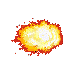
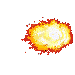
Added iceball and modified player blocking

diff --git a/src/Server/Creatures/ServerPlayer.java b/src/Server/Creatures/ServerPlayer.java
@@ -34,7 +34,7 @@ public class ServerPlayer extends ServerCreature implements Runnable
 	public final static int PLAYER_Y = 50;
 	public final static int MAX_INVENTORY = 25;
 	public static final int MAX_WEAPONS = 4;
-	
+
 	public final static int DEFAULT_WIDTH = 34;
 	public final static int DEFAULT_HEIGHT = 90;
 
@@ -880,7 +880,8 @@ public class ServerPlayer extends ServerCreature implements Runnable
 	{
 
 		int xDist = mouseX - Client.Client.SCREEN_WIDTH / 2;
-		int yDist = mouseY - (Client.Client.SCREEN_HEIGHT / 2 -getHeight()/4);
+		int yDist = mouseY
+				- (Client.Client.SCREEN_HEIGHT / 2 - getHeight() / 4);
 
 		System.out.println("X/Y " + xDist + " " + yDist);
 
@@ -890,22 +891,42 @@ public class ServerPlayer extends ServerCreature implements Runnable
 
 		if (isAlive() && canPerformAction)
 		{
+			if (rightClick)
+			{
+				actionDelay = 3600;
+				action = "BLOCK";
+				rightClick = false;
+			}
+			else
+			{
+				int random = (int) (Math.random() * 3);
+				if (random == 0)
+				{
+					world.add(new ServerProjectile(getX() + getWidth() / 2,
+							getY()
+									+ getHeight() / 4, this, angle,
+							ServerWorld.FIREBALL_TYPE));
+				}
+				else if (random == 1)
+				{
 
-			world.add(new ServerProjectile(getX() + getWidth() / 2, getY()
-					+ getHeight() / 4, this, angle, ServerWorld.FIREBALL_TYPE));
-			
-			world.add(new ServerProjectile(getX() + getWidth() / 2, getY()
-					+ getHeight() / 4, this, angle, ServerWorld.ARROW_TYPE));
-			
-			actionDelay = 15;
-			action = "FIRE";
+					world.add(new ServerProjectile(getX() + getWidth() / 2,
+							getY()
+									+ getHeight() / 4, this, angle,
+							ServerWorld.ICEBALL_TYPE));
+				}
+				else if (random == 2)
+				{
+					world.add(new ServerProjectile(getX() + getWidth() / 2,
+							getY()
+									+ getHeight() / 4, this, angle,
+							ServerWorld.ARROW_TYPE));
+				}
+				actionDelay = 15;
+				action = "FIRE";
 
-			// if (rightClick)
-			// {
-			// actionDelay = 3600;
-			// action = "BLOCK";
-			// rightClick = false;
-			// }
+			}
+
 			// else if (weaponNo == 9 || equippedWeapons[weaponNo] == null)
 			// {
 			// action = "PUNCH";
@@ -1026,7 +1047,7 @@ public class ServerPlayer extends ServerCreature implements Runnable
 	{
 		if (action.equals("BLOCK"))
 		{
-			amount /= 2;
+			amount = 0;
 		}
 
 		if (equippedArmour != null)

diff --git a/src/Server/Projectile/ServerProjectile.java b/src/Server/Projectile/ServerProjectile.java
@@ -112,13 +112,19 @@ public class ServerProjectile extends ServerFlyingObject
 			animated = true;
 			faceAngle = true;
 			break;
+		case ServerWorld.ICEBALL_TYPE:
+			setImage("ICEBALL_0_0.png");
+			setGravity(0);
+			setDamage(12);
+			setSpeed(6);
+			animated = true;
+			faceAngle = true;
+			break;
 		}
 
 		length = Images.getGameImage(getImage()).getWidth();
 
-		hitbox = new Line2D.Double(getX()
-				- ((length / 2) * Math.cos(getAngle())), getY()
-				- ((length / 2) * Math.sin(getAngle())), getX()
+		hitbox = new Line2D.Double(getX(), getY(), getX()
 				+ ((length / 2) * Math.cos(getAngle())), getY()
 				+ ((length / 2) * Math.sin(getAngle())));
 	}
@@ -131,11 +137,9 @@ public class ServerProjectile extends ServerFlyingObject
 
 		setAngle(Math.atan2(getVSpeed(), getHSpeed()), false);
 
-		hitbox.setLine(getX()
-				- ((length / 2) * Math.cos(getAngle())), getY()
-				- ((length / 2) * Math.sin(getAngle())), getX()
-				+ ((length / 2) * Math.cos(getAngle())), getY()
-				+ ((length / 2) * Math.sin(getAngle())));
+		hitbox.setLine(getX(), getY(),
+				getX() + ((length / 2) * Math.cos(getAngle())), getY()
+						+ ((length / 2) * Math.sin(getAngle())));
 
 		int imageAngle = 0;
 
@@ -153,14 +157,14 @@ public class ServerProjectile extends ServerFlyingObject
 		if (animated)
 		{
 			animationCounter++;
-			if (animationCounter >= 20)
+			if (animationCounter >= 10)
 			{
 				animationCounter = 0;
 			}
 
 			int imageNo = 1;
 
-			if (animationCounter < 10)
+			if (animationCounter < 5)
 			{
 				imageNo = 0;
 			}
@@ -189,7 +193,7 @@ public class ServerProjectile extends ServerFlyingObject
 
 		counter++;
 
-		if (counter >= 180)
+		if (counter >= 300)
 		{
 			destroy();
 		}

diff --git a/src/Client/ClientWorld.java b/src/Client/ClientWorld.java
@@ -22,7 +22,7 @@ public class ClientWorld
 
 	public final static Color YELLOW_TEXT = new Color(204, 153, 0);
 	public final static Color RED_TEXT = new Color(153, 0, 38);
-
+	public final static Color BLUE_TEXT = new Color(0, 161, 230);
 	/**
 	 * The grid of tiles
 	 */
@@ -346,7 +346,15 @@ public class ClientWorld
 					{
 						String imageName = object.getImageName();
 						char colour = imageName.charAt(1);
-						if (colour == ServerDamageIndicator.RED_TEXT)
+						String text = imageName
+								.substring(2, imageName.length());
+						
+						if (Integer.parseInt(text)==0)
+						{
+							graphics.setColor(BLUE_TEXT);
+							text = "BLOCK";
+						}	
+						else if (colour == ServerDamageIndicator.RED_TEXT)
 						{
 							graphics.setColor(RED_TEXT);
 						}
@@ -356,16 +364,9 @@ public class ClientWorld
 						}
 
 						graphics.setFont(DAMAGE_FONT);
-						String text = imageName
-								.substring(2, imageName.length());
-
-						if (object.getWidth() == 0)
-						{
-							object.setWidth((int) (text.length()
-									* DAMAGE_FONT_WIDTH + 0.5));
-							object.setX(object.getX() - object.getWidth() / 2);
-						}
-						x = centreX + object.getX() - player.getX();
+						
+						x -= ((int) (text.length()
+								* DAMAGE_FONT_WIDTH + 0.5))/2;
 
 						graphics.drawString(text, x, y - 10);
 					}

diff --git a/src/Imports/Images.java b/src/Imports/Images.java
@@ -318,7 +318,7 @@ public class Images
 				images.add(new GameImage("OUTFITNINJARED_ICON.png",32,32));
 				images.add(new GameImage("OUTFITNINJAGREY_ICON.png",32,32));
 
-				String[] projectiles = { "ARROW", "FIREBALL_0", "FIREBALL_1"};
+				String[] projectiles = { "ARROW", "FIREBALL_0", "FIREBALL_1", "ICEBALL_0", "ICEBALL_1"};
 
 				for (int no = 0; no < projectiles.length; no++)
 				{
@@ -348,10 +348,24 @@ public class Images
 								
 						newImage = newImage.getSubimage(0, 0,cropWidth, cropHeight);
 
+						int height = 0;
+						int width = 0;
+						
+						if (no == 0)
+						{
+							width = 34;
+							height = 34;
+						}
+						else
+						{
+							width = 48;
+							height = 48;
+						}
+						
 						
 						images.add(new GameImage(
 								projectiles[no] + "_" + (actualAngle) + ".png",
-								newImage,34,34));
+								newImage,width,height));
 						//ImageIO.write(newImage, "PNG", new File(projectiles[no] + "_" + (actualAngle) + ".png"));
 					}
 				}

diff --git a/src/Server/ServerWorld.java b/src/Server/ServerWorld.java
@@ -37,6 +37,7 @@ public class ServerWorld
 
 	public final static String ARROW_TYPE = PIERCING_TYPE + "A";
 	public final static String FIREBALL_TYPE = PROJECTILE_TYPE + "F";
+	public final static String ICEBALL_TYPE = PROJECTILE_TYPE + "I";
 
 	public final static char CREATURE_TYPE = 'C';
 	public final static String PLAYER_TYPE = CREATURE_TYPE + "C";
